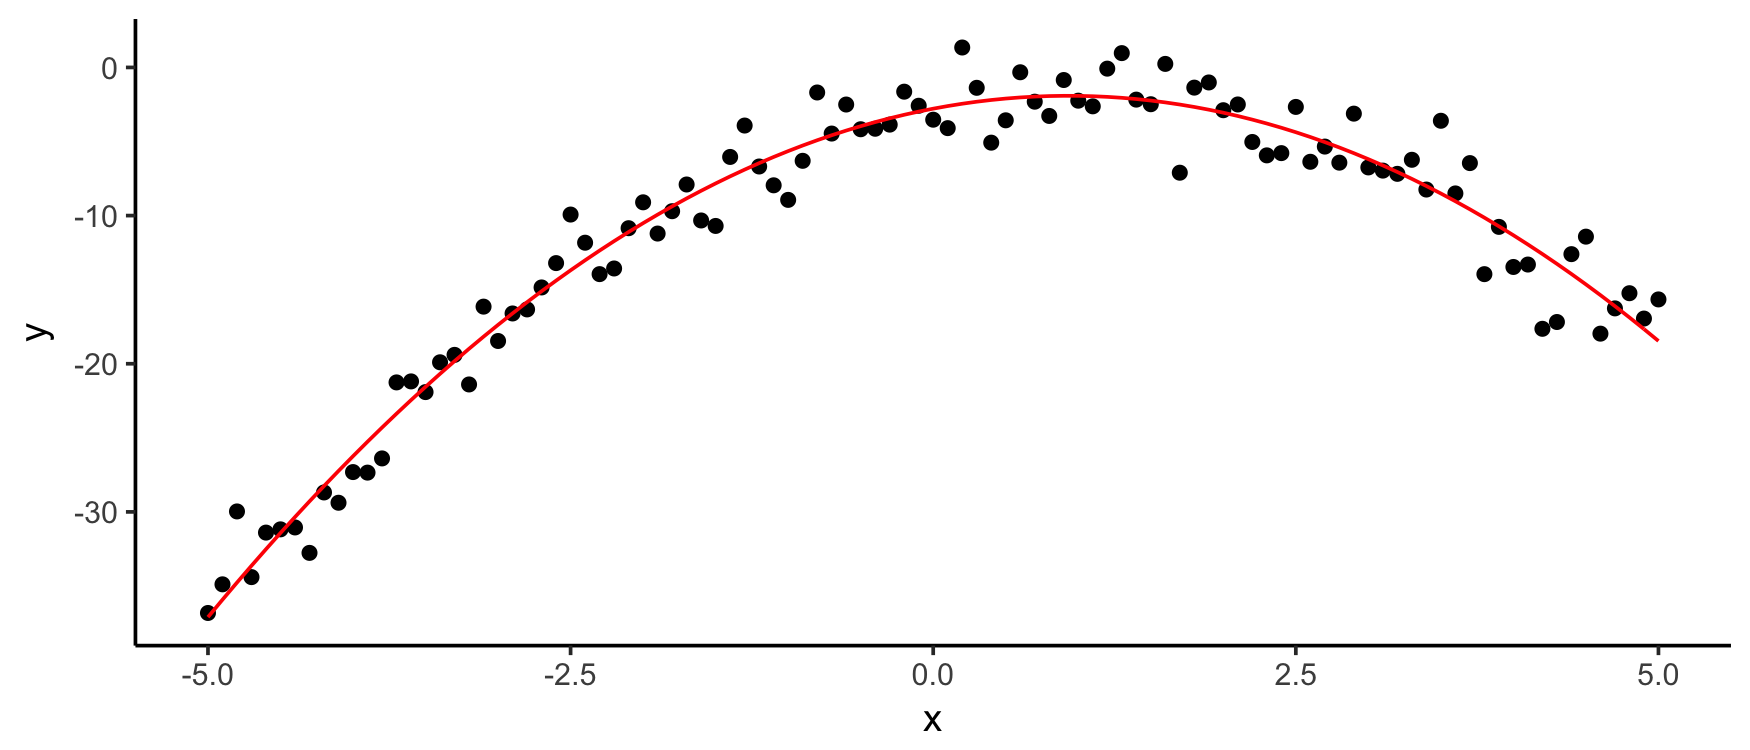
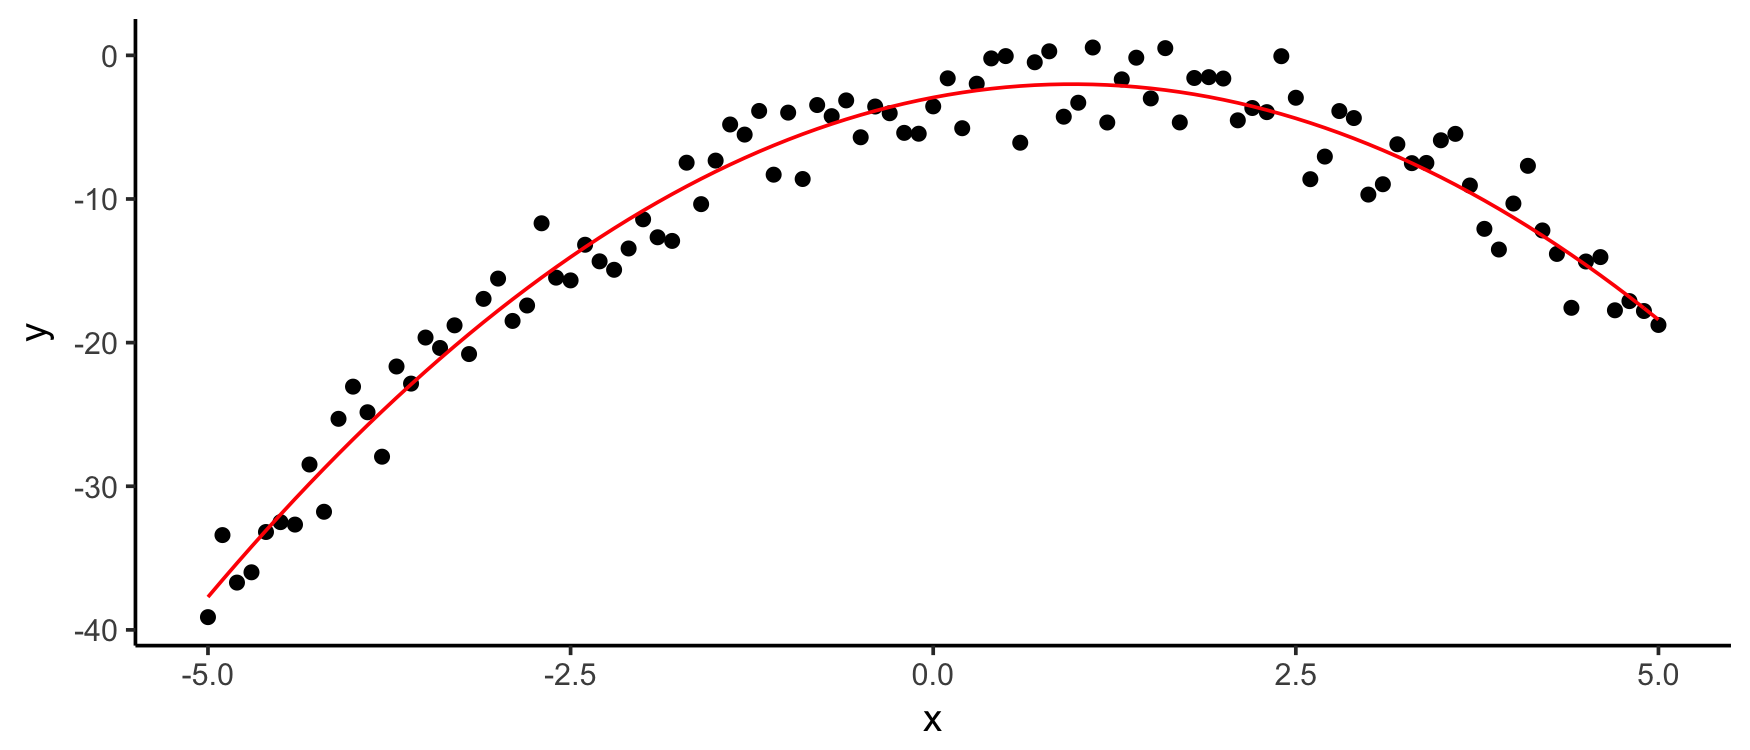
move README images

diff --git a/README.md b/README.md
@@ -527,7 +527,7 @@ df$y <- with(df, -x^2 + 2*x - 3 + rnorm(n, 0, 2))
 
 mod <- lm(y ~ x + I(x^2), data = df)
 (p <- mod %>% as.mpoly %>% round)
-# 1.864 x  -  x^2  -  2.783
+# 1.931 x  -  1.005 x^2  -  2.932
 qplot(x, y, data = df) +
   stat_function(fun = as.function(p), colour = 'red')
 # f(.) with . = x
@@ -547,19 +547,19 @@ df <- expand.grid(x = s, y = s) %>%
 # 
 # Coefficients:
 #                           (Intercept)  
-#                              0.003204  
+#                            -0.0542186  
 # poly(x, y, degree = 2, raw = TRUE)1.0  
-#                             -0.012784  
+#                            -0.0081241  
 # poly(x, y, degree = 2, raw = TRUE)2.0  
-#                              0.997207  
+#                             1.0027100  
 # poly(x, y, degree = 2, raw = TRUE)0.1  
-#                             -0.008901  
+#                            -0.0005508  
 # poly(x, y, degree = 2, raw = TRUE)1.1  
-#                              2.995842  
+#                             3.0014475  
 # poly(x, y, degree = 2, raw = TRUE)0.2  
-#                             -1.003032
+#                            -1.0028567
 as.mpoly(mod)
-# -0.01278423 x  +  0.9972066 x^2  -  0.008900973 y  +  2.995842 x y  -  1.003032 y^2  +  0.003203564
+# -0.008124078 x  +  1.00271 x^2  -  0.0005507512 y  +  3.001448 x y  -  1.002857 y^2  -  0.05421859
 ```
 
 Installation
